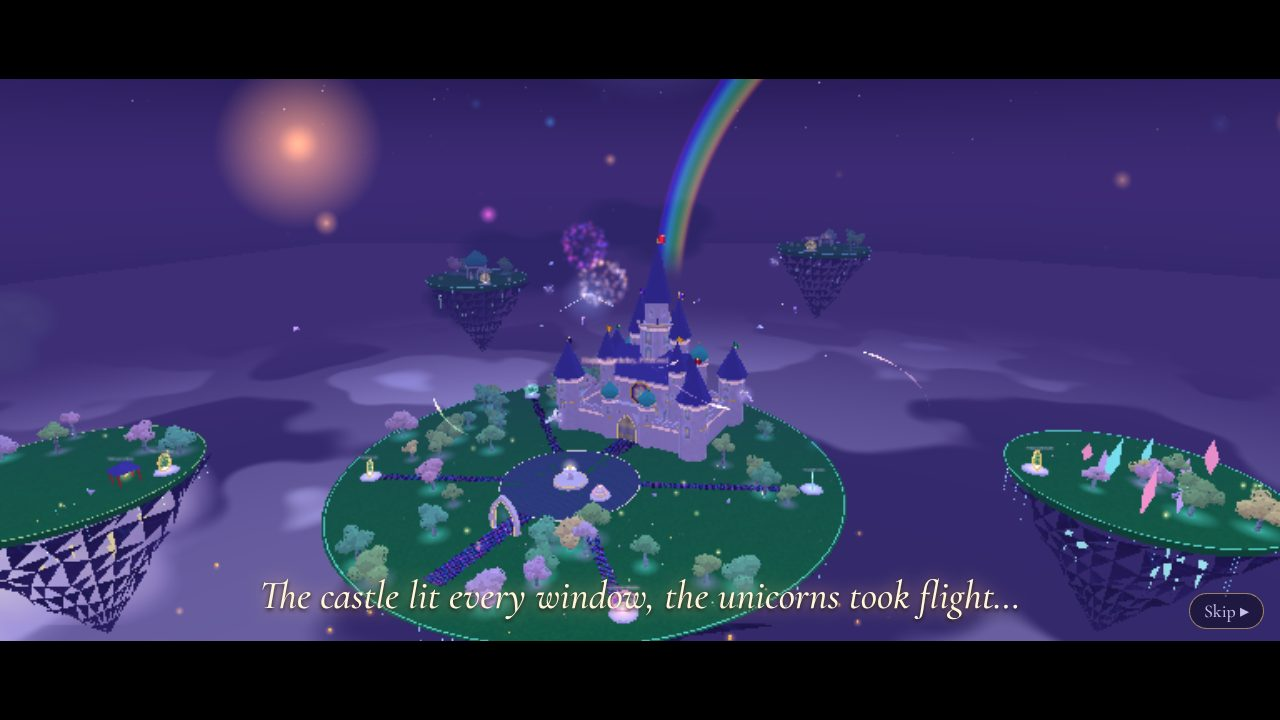
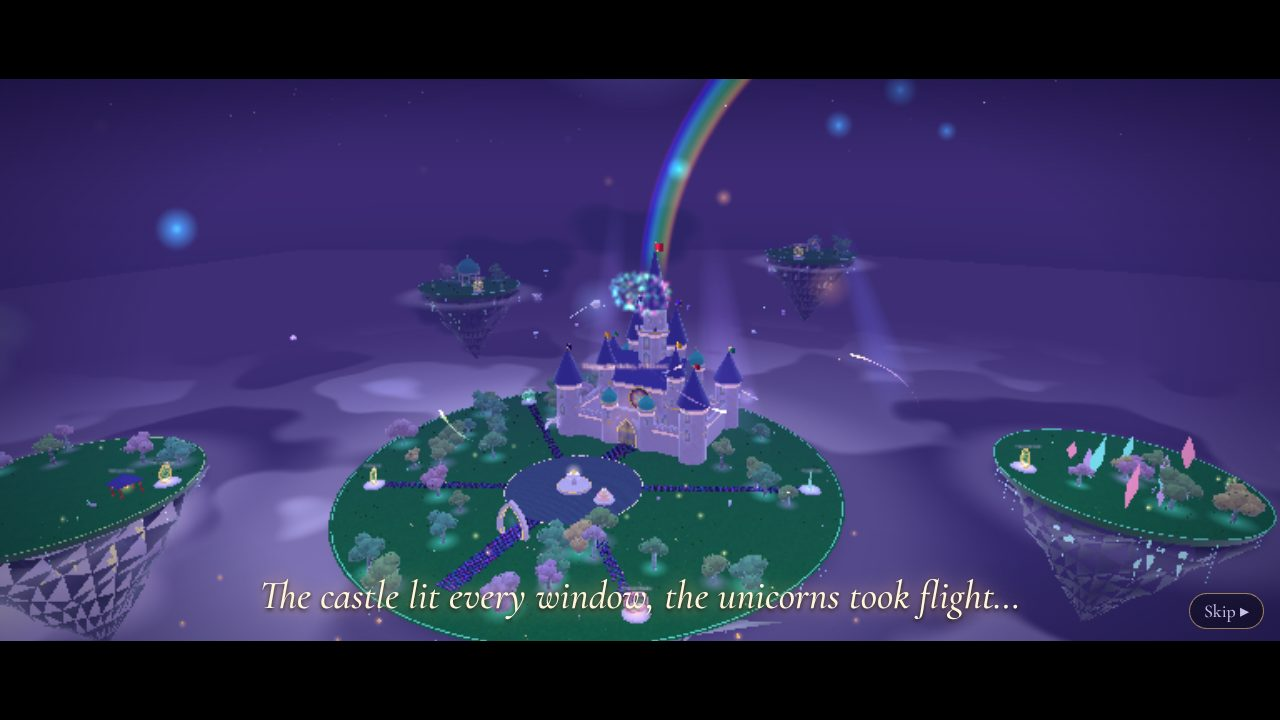
Cinematic pass: wind-swept grass, moonbeams, island mist, vignette
Claude-Session: https://claude.ai/code/session_01ESfiP9gbMqkLUcGLhmmcsH

diff --git a/js/world/atmosphere.js b/js/world/atmosphere.js
@@ -1,0 +1,72 @@
+// Cinematic touches borrowed from environment-art practice, all nearly free:
+// soft god rays slanting from the moon through the scene, light pouring out of
+// the rose window, and low mist hugging the island edges for depth.
+import * as THREE from 'three';
+import { rng } from './textures.js';
+import { CASTLE, ISLANDS } from './layout.js';
+
+function shaftMaterial(color, strength) {
+  return new THREE.ShaderMaterial({
+    transparent: true, depthWrite: false, blending: THREE.AdditiveBlending, side: THREE.DoubleSide, fog: false,
+    uniforms: { uTime: { value: 0 }, uColor: { value: new THREE.Color(color) }, uStrength: { value: strength } },
+    vertexShader: 'varying vec2 vUv; varying vec3 vN; varying vec3 vV; void main(){ vUv = uv; vec4 mv = modelViewMatrix * vec4(position,1.); vN = normalize(normalMatrix * normal); vV = normalize(-mv.xyz); gl_Position = projectionMatrix * mv; }',
+    fragmentShader: /* glsl */`
+      uniform float uTime; uniform vec3 uColor; uniform float uStrength; varying vec2 vUv; varying vec3 vN; varying vec3 vV;
+      void main(){
+        float along = smoothstep(0., .25, vUv.y) * smoothstep(1., .55, vUv.y);    // fade at both ends
+        float edge = pow(abs(dot(vN, vV)), 1.5);                                    // soft cylinder edges
+        float flick = .8 + .2 * sin(uTime * .7 + vUv.x * 12.);
+        gl_FragColor = vec4(uColor, along * edge * flick * uStrength);
+      }
+    `,
+  });
+}
+
+export function createAtmosphere(scene, preset) {
+  const group = new THREE.Group();
+  const r = rng(404);
+  const mats = [];
+  const moonDir = new THREE.Vector3(-260, 330, -520).normalize();
+
+  // moonbeams: long soft cylinders tilted along the moonlight
+  for (let i = 0; i < preset.shafts; i++) {
+    const m = shaftMaterial(i % 2 ? '#a9b8ff' : '#d9c4ff', 0.07 + r() * 0.05);
+    mats.push(m);
+    const len = 160 + r() * 80;
+    const geo = new THREE.CylinderGeometry(4 + r() * 6, 10 + r() * 10, len, 16, 1, true);
+    geo.translate(0, len / 2, 0);
+    const beam = new THREE.Mesh(geo, m);
+    const target = new THREE.Vector3((r() - 0.5) * 220, -10, (r() - 0.5) * 220 - 30);
+    beam.position.copy(target);
+    beam.quaternion.setFromUnitVectors(new THREE.Vector3(0, 1, 0), moonDir);
+    group.add(beam);
+  }
+
+  // warm light spilling from the rose window and gate
+  const roseBeam = new THREE.CylinderGeometry(4.5, 9, 26, 20, 1, true);
+  roseBeam.translate(0, 13, 0);
+  const rm = shaftMaterial('#ffcf8a', 0.16); mats.push(rm);
+  const rose = new THREE.Mesh(roseBeam, rm);
+  rose.position.set(CASTLE.x, 17, CASTLE.z + 13);
+  rose.rotation.x = Math.PI / 2 + 0.35;
+  group.add(rose);
+
+  // mist rings around each floating island, for depth and scale
+  for (const isl of ISLANDS) {
+    const m = new THREE.Mesh(
+      new THREE.RingGeometry(isl.r * 0.85, isl.r * 1.6, 48, 1),
+      new THREE.ShaderMaterial({
+        transparent: true, depthWrite: false, side: THREE.DoubleSide,
+        uniforms: { uR0: { value: isl.r * 0.85 }, uR1: { value: isl.r * 1.6 } },
+        vertexShader: 'varying float vR; void main(){ vR = length(position.xy); gl_Position = projectionMatrix * modelViewMatrix * vec4(position,1.); }',
+        fragmentShader: 'uniform float uR0; uniform float uR1; varying float vR; void main(){ float k = (vR - uR0) / (uR1 - uR0); gl_FragColor = vec4(.78,.74,.98, smoothstep(0.,.25,k) * smoothstep(1.,.3,k) * .22); }',
+      }),
+    );
+    m.rotation.x = -Math.PI / 2;
+    m.position.set(isl.x, isl.y - 6, isl.z);
+    group.add(m);
+  }
+
+  scene.add(group);
+  return { update(t) { for (const m of mats) m.uniforms.uTime.value = t; } };
+}

diff --git a/js/world/nature.js b/js/world/nature.js
@@ -93,9 +93,50 @@ export function createNature(scene, preset) {
   });
   group.add(flowers, tufts);
 
+  // --- wind-swept grass: Genshin / Ghibli meadows, swaying in the vertex shader ---
+  const gspots = scatter(preset.grass, r, 1.5, 0);
+  const n = gspots.length;
+  const gp = new Float32Array(n * 9), gc = new Float32Array(n * 9), gw = new Float32Array(n * 3);
+  gspots.forEach((s, i) => {
+    const a = r() * Math.PI, w = 0.09 + r() * 0.06, h = 0.45 + r() * 0.7;
+    const dx = Math.cos(a) * w, dz = Math.sin(a) * w, lean = (r() - 0.5) * 0.3;
+    gp.set([s.x - dx, s.y, s.z - dz, s.x + dx, s.y, s.z + dz, s.x + lean, s.y + h, s.z + lean], i * 9);
+    const base = color.setHSL(0.36 + (r() - 0.5) * 0.08, 0.55, 0.22);
+    const tip = new THREE.Color().setHSL(r() < 0.12 ? 0.5 : 0.33 + r() * 0.06, 0.6, 0.48 + r() * 0.12);
+    gc.set([base.r, base.g, base.b, base.r, base.g, base.b, tip.r, tip.g, tip.b], i * 9);
+    gw.set([0, 0, 1], i * 3);
+  });
+  const gg = new THREE.BufferGeometry();
+  gg.setAttribute('position', new THREE.BufferAttribute(gp, 3));
+  gg.setAttribute('color', new THREE.BufferAttribute(gc, 3));
+  gg.setAttribute('aTip', new THREE.BufferAttribute(gw, 1));
+  const grassMat = new THREE.ShaderMaterial({
+    side: THREE.DoubleSide, vertexColors: true,
+    uniforms: { uTime: { value: 0 }, uFog: { value: new THREE.Color('#2b2466') } },
+    vertexShader: /* glsl */`
+      uniform float uTime; attribute float aTip; varying vec3 vC; varying float vDist;
+      void main(){
+        vec3 p = position;
+        float gust = sin(p.x * .08 + uTime * 1.3) * .5 + sin(p.z * .11 + uTime * .9) * .5;
+        p.x += aTip * (.18 + .22 * gust); p.z += aTip * .1 * sin(uTime * 2. + p.x);
+        vC = color * (1. + aTip * .25 * gust);
+        vec4 mv = modelViewMatrix * vec4(p, 1.);
+        vDist = -mv.z;
+        gl_Position = projectionMatrix * mv;
+      }
+    `,
+    fragmentShader: /* glsl */`
+      uniform vec3 uFog; varying vec3 vC; varying float vDist;
+      void main(){ gl_FragColor = vec4(mix(vC, uFog, smoothstep(60., 300., vDist) * .7), 1.); }
+    `,
+  });
+  const grass = new THREE.Mesh(gg, grassMat);
+  group.add(grass);
+
   scene.add(group);
   return {
     update(t) {
+      grassMat.uniforms.uTime.value = t;
       // canopies breathe with a soft bioluminescent pulse
       canopy.material.emissiveIntensity = 0.85 + Math.sin(t * 0.8) * 0.15;
       pools.material.opacity = 0.45 + Math.sin(t * 1.1) * 0.12;

diff --git a/js/main.js b/js/main.js
@@ -8,6 +8,7 @@ import { createNature } from './world/nature.js';
 import { createPath } from './world/path.js';
 import { createCreatures } from './world/creatures.js';
 import { createEffects } from './world/effects.js';
+import { createAtmosphere } from './world/atmosphere.js';
 import { SPAWN, MAIN } from './world/layout.js';
 import { Avatar } from './avatar.js';
 import { Controller } from './controls.js';
@@ -75,6 +76,7 @@ const nature = createNature(scene, quality);
 const path = createPath(scene);
 const creatures = createCreatures(scene, quality);
 const effects = createEffects(scene, quality);
+const atmosphere = createAtmosphere(scene, quality);
 const celebration = createCelebration(scene, effects, sky, castle);
 const lanterns = createWishLanterns(scene);
 
@@ -298,6 +300,7 @@ function frame() {
   islands.update(t);
   castle.update(t, dt);
   nature.update(t);
+  atmosphere.update(t);
   path.update(t);
   creatures.update(t, dt);
   effects.update(t, dt, camera, governor.ratio);

diff --git a/js/quality.js b/js/quality.js
@@ -4,15 +4,15 @@
 export const PRESETS = {
   low: {
     name: 'Low', pixelRatio: 0.75, antialias: false, bloom: false,
-    particles: 450, trees: 70, flowers: 120, clouds: 14, skyOctaves: 2, strokes: 4, birds: 10,
+    particles: 450, trees: 70, flowers: 120, clouds: 14, skyOctaves: 2, strokes: 4, birds: 10, grass: 2500, shafts: 3,
   },
   medium: {
     name: 'Medium', pixelRatio: 1, antialias: true, bloom: false,
-    particles: 1300, trees: 150, flowers: 320, clouds: 26, skyOctaves: 3, strokes: 8, birds: 24,
+    particles: 1300, trees: 150, flowers: 320, clouds: 26, skyOctaves: 3, strokes: 8, birds: 24, grass: 7000, shafts: 6,
   },
   high: {
     name: 'High', pixelRatio: 1.5, antialias: true, bloom: true,
-    particles: 2600, trees: 230, flowers: 600, clouds: 40, skyOctaves: 4, strokes: 12, birds: 40,
+    particles: 2600, trees: 230, flowers: 600, clouds: 40, skyOctaves: 4, strokes: 12, birds: 40, grass: 14000, shafts: 8,
   },
 };
 

diff --git a/css/style.css b/css/style.css
@@ -12,6 +12,7 @@
 
 * { box-sizing: border-box; }
 html, body { margin: 0; height: 100%; overflow: hidden; background: #0b0820; color: var(--ink); font-family: 'Cormorant Garamond', Georgia, serif; font-size: 18px; }
+body::after { content: ''; position: fixed; inset: 0; pointer-events: none; z-index: 1; background: radial-gradient(ellipse at center, transparent 55%, rgba(8, 4, 30, 0.55) 100%); }
 canvas#c { position: fixed; inset: 0; width: 100%; height: 100%; display: block; touch-action: none; }
 .hidden { display: none !important; }
 button, input, select { font: inherit; color: inherit; }
